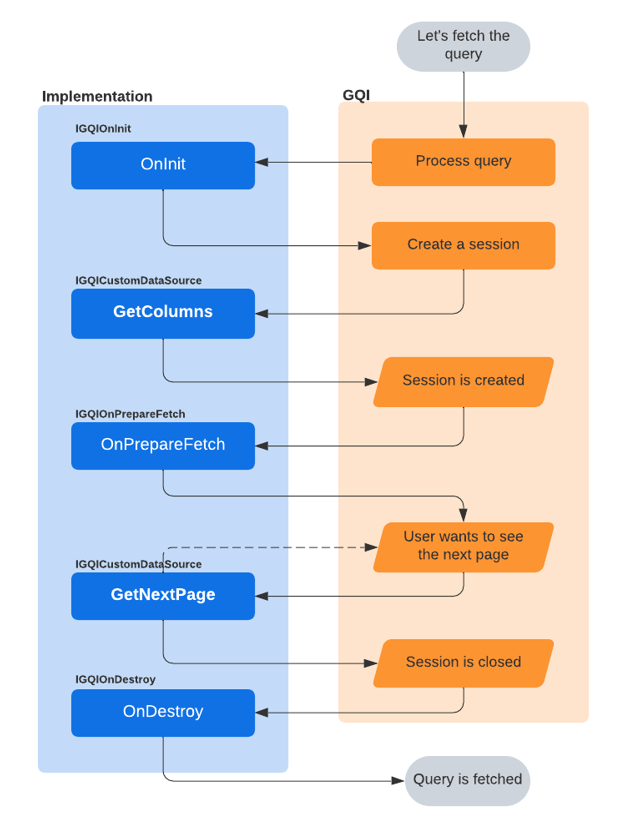
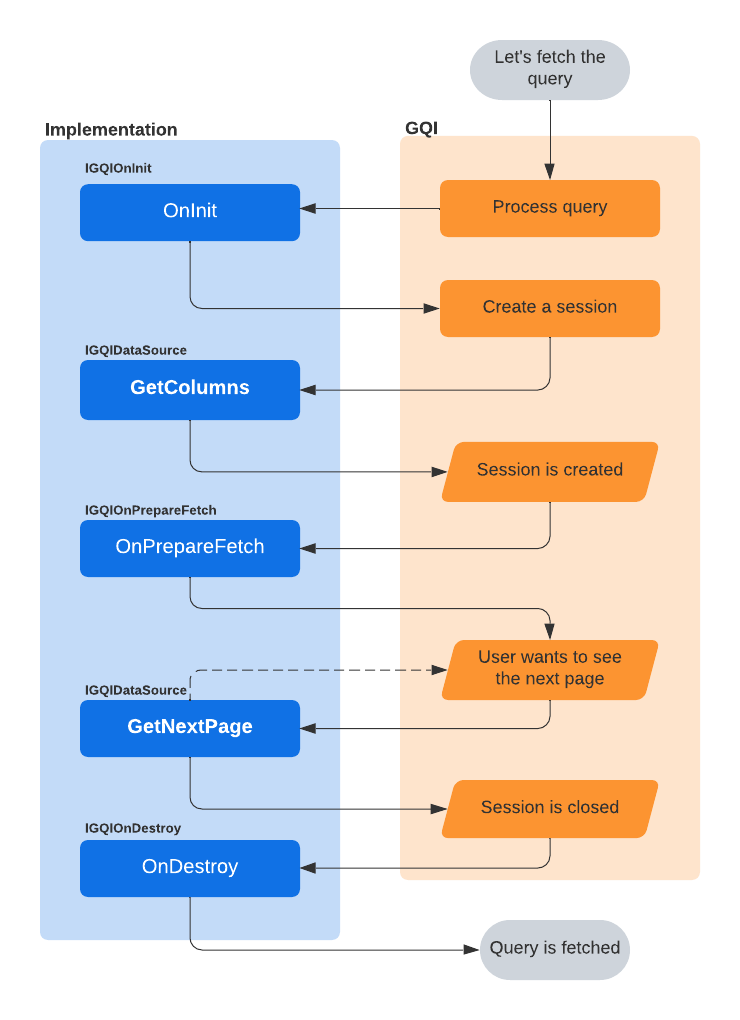
Updated GQI custom data source docs

Changed region(s): [[0.0306, 0.0, 0.95, 0.9297], [0.6435, 0.8987, 0.8581, 0.9607]]

diff --git a/user-guide/Advanced_Modules/Dashboards_app/Using_dashboard_feeds/Configuring_GQI_feeds.md b/user-guide/Advanced_Modules/Dashboards_app/Using_dashboard_feeds/Configuring_GQI_feeds.md
@@ -41,7 +41,7 @@ Available from DataMiner 10.3.0/10.2.4 onwards. Retrieves external data based on
 
 This is the most basic procedure to use an external data source in a query:
 
-1. In the Automation app, add a script containing a new class that implements the *IGQICustomDatasource* interface (see [Interfaces](#interfaces-in-the-custom-data-script )).
+1. In the Automation app, add a script containing a new class that implements the *IGQIDatasource* interface (see [Interfaces](#interfaces-in-the-custom-data-script)).
 
 1. Above the class, add the *GQIMetaData* attribute in order to configure the name of the data source as displayed in the Dashboards app.
 
@@ -51,7 +51,7 @@ This is the most basic procedure to use an external data source in a query:
    using Skyline.DataMiner.Analytics.GenericInterface;
 
    [GQIMetaData(Name = "People")]
-   public class MyCustomDataSource : IGQICustomDataSource
+   public class MyDataSource : IGQIDataSource
    {
    ...
    }
@@ -74,26 +74,26 @@ Depending on how the script is configured, there can be additional configuration
 
 A custom data source is represented as a class that implements predefined interfaces. The interfaces you can use are detailed below.
 
-##### IGQICustomDataSource
+##### IGQIDataSource
 
 This is the only required interface. It must be implemented for the class to be detected by GQI as a data source. This interface has the following methods:
 
-| Method | Input arguments | Output arguments | Description |
-|--------|-----------------|------------------|-------------|
-| GetColumns | - | GQICustomColumn[] | The GQI will request the columns. |
-| GetNextPage | GetNextPageInputArgs | GQICustomPage | The GQI will request data. |
+| Method      | Input arguments      | Output arguments | Description                       |
+| ----------- | -------------------- | ---------------- | --------------------------------- |
+| GetColumns  | -                    | GQIColumn[]      | The GQI will request the columns. |
+| GetNextPage | GetNextPageInputArgs | GQIPage          | The GQI will request data.        |
 
 ##### IGQIInputArguments
 
 This interface can be used to have the user specify an argument, for example the CSV file from which data should be parsed, or a filter that should be applied. This interface has the following methods:
 
-| Method | Input arguments | Output arguments | Description |
-|--------|-----------------|------------------|-------------|
-| GetInputArguments | - | AGQICustomArgument[] | Asks for additional information from the user when the data source is configured. |
-| OnArgumentsProcessed | OnArgumentsProcessedInputArgs | OnArgumentsProcessedOutputArgs | Event to indicate that the arguments have been processed. |
+| Method               | Input arguments               | Output arguments               | Description                                                                       |
+| -------------------- | ----------------------------- | ------------------------------ | --------------------------------------------------------------------------------- |
+| GetInputArguments    | -                             | GQIArgument[]                  | Asks for additional information from the user when the data source is configured. |
+| OnArgumentsProcessed | OnArgumentsProcessedInputArgs | OnArgumentsProcessedOutputArgs | Event to indicate that the arguments have been processed.                         |
 
 > [!NOTE]
-> The GQI does not validate the input arguments specified by the user. For example, a user can input an SQL query as a text input argument, and the content of the text argument will be forwarded to the custom data source implementation without validation.
+> The GQI does not validate the input arguments specified by the user. For example, a user can input an SQL query as a string input argument, and the content of the string argument will be forwarded to the custom data source implementation without validation.
 
 ##### IGQIOnInit
 
@@ -135,58 +135,58 @@ The following flowchart illustrates the GQI life cycle when a query is fetched:
 
 To build the custom data source, you can use the objects detailed below.
 
-##### GQICustomColumn
+##### GQIColumn
+
+This is an abstract class, with the derived types *GQIStringColumn*, *GQIBooleanColumn*, *GQIIntColumn*, *GQIDateTimeColumn* and *GQIDoubleColumn*, and with the following properties:
+
+| Property | Type          | Required | Description                                                                                                                            |
+| -------- | ------------- | -------- | -------------------------------------------------------------------------------------------------------------------------------------- |
+| Name     | String        | Yes      | The column name.                                                                                                                       |
+| Type     | GQIColumnType | Yes      | The type of data in the column. GQIColumnType is an enum that contains the following values: String, Int, DateTime, Boolean or Double. |
+
+##### GQIPage
 
 This object has the following properties:
 
-| Property | Type | Required | Description |
-|----------|------|----------|-------------|
-| Name | String | Yes | The column name. |
-| Type | GQICustomColumnType | Yes | The type of data in the column. GQICustomColumnType is an enum that contains the following values: String, Int, DateTime, Boolean or Double. |
+| Property    | Type     | Required | Description                                                                            |
+| ----------- | -------- | -------- | -------------------------------------------------------------------------------------- |
+| Rows        | GQIRow[] | Yes      | The rows of the page.                                                                  |
+| HasNextPage | Boolean  | No       | True if additional pages can be retrieved, False if the current page is the last page. |
 
-##### GQICustomPage
-
-This object has the following properties:
-
-| Property | Type | Required | Description |
-|----------|------|----------|-------------|
-| Rows | GQICustomRow[] | Yes | The rows of the page. |
-| HasNextPage | Boolean | No | True if additional pages can be retrieved, False if the current page is the last page. |
-
-##### GQICustomRow
+##### GQIRow
 
 This object has the following properties:
 
-| Property | Type | Required | Description |
-|----------|------|----------|-------------|
-| Cells | GQICustomCell[] | Yes | The cells of the row. |
+| Property | Type      | Required | Description           |
+| -------- | --------- | -------- | --------------------- |
+| Cells    | GQICell[] | Yes      | The cells of the row. |
 
-##### GQICustomCell
+##### GQICell
 
 This object has the following properties:
 
-| Property | Type | Required | Description |
-|----------|------|----------|-------------|
-| Value | Object | No | The value of the cell. |
-| DisplayValue | String | No | The display value of the cell. |
+| Property     | Type   | Required | Description                    |
+| ------------ | ------ | -------- | ------------------------------ |
+| Value        | Object | No       | The value of the cell.         |
+| DisplayValue | String | No       | The display value of the cell. |
 
 > [!NOTE]
 > The type of value of a cell must match the type of the corresponding column.
 
-##### AGQICustomArgument
+##### GQIArgument
 
-This is an abstract class, with the derived types *GQITextArgument* and *GQIDoubleArgument*, and with the following properties:
+This is an abstract class, with the derived types *GQIStringArgument* and *GQIDoubleArgument*, and with the following properties:
 
-| Property | Type | Required | Description |
-|----------|------|----------|-------------|
-| Name | String | Yes | The name of the input argument. |
-| IsRequired | Boolean | No | Indicates whether the argument is required. |
+| Property   | Type    | Required | Description                                 |
+| ---------- | ------- | -------- | ------------------------------------------- |
+| Name       | String  | Yes      | The name of the input argument.             |
+| IsRequired | Boolean | No       | Indicates whether the argument is required. |
 
 #### Example custom data script
 
 Below you can find an example script that forwards dummy data to the GQI. The name of the data source, as defined in the *GQIMetaData* attribute, will be “People”.
 
-First the *IGQICustomDataSource* interface is implemented, then *GetColumns* is used to define the custom columns for the data source. In this case, there are 5 columns. The *GetNextPage* method then returns the actual data to the GQI. In this case these are 3 rows, defined as an array of cells. For each cell, a display value can also be defined. In this case, this is done for the cells within the *Height* column to indicate the unit of measure. The *HasNextPage* property is set to *False* to indicate that no additional pages need to be fetched.
+First the *IGQIDataSource* interface is implemented, then *GetColumns* is used to define the custom columns for the data source. In this case, there are 5 columns. The *GetNextPage* method then returns the actual data to the GQI. In this case these are 3 rows, defined as an array of cells. For each cell, a display value can also be defined. In this case, this is done for the cells within the *Height* column to indicate the unit of measure. The *HasNextPage* property is set to *False* to indicate that no additional pages need to be fetched.
 
 The optional *IGQIInputArguments* interface is also implemented in the example, in this case to allow the user to add an input argument indicating the minimum age for the records that will be retrieved. The argument is indicated as required, so the user will have to specify it to be able to configure the query. The argument value is retrieved with *OnArgumentsProcessedInputArgs* and used to filter the returned data.
 
@@ -197,26 +197,26 @@ using System.Linq;
 using Skyline.DataMiner.Analytics.GenericInterface;
 
 [GQIMetaData(Name = "People")]
-public class MyCustomDataSource : IGQICustomDataSource, IGQIInputArguments
+public class MyDataSource : IGQIDataSource, IGQIInputArguments
 {
     private GQIDoubleArgument _argument = new GQIDoubleArgument("Age") { IsRequired = true };
     private double _minimumAge;
 
-    public GQICustomColumn[] GetColumns()
+    public GQIColumn[] GetColumns()
     {
-        return new GQICustomColumn[]
+        return new GQIColumn[]
         {
-            new GQICustomColumn("Name", GQICustomColumnType.String),
-            new GQICustomColumn("Age", GQICustomColumnType.Int),
-            new GQICustomColumn("Height (m)", GQICustomColumnType.Double),
-            new GQICustomColumn("Birthday", GQICustomColumnType.DateTime),
-            new GQICustomColumn("Likes apples", GQICustomColumnType.Boolean)
+            new GQIStringColumn("Name"),
+            new GQIIntColumn("Age"),
+            new GQIDoubleColumn("Height (m)"),
+            new GQIDateTimeColumn("Birthday"),
+            new GQIBooleanColumn("Likes apples")
         };
     }
 
-    public AGQICustomArgument[] GetInputArguments()
+    public GQIArgument[] GetInputArguments()
     {
-        return new AGQICustomArgument[] { _argument };
+        return new GQIArgument[] { _argument };
     }
 
     public OnArgumentsProcessedOutputArgs OnArgumentsProcessed(OnArgumentsProcessedInputArgs args)
@@ -225,41 +225,41 @@ public class MyCustomDataSource : IGQICustomDataSource, IGQIInputArguments
         return new OnArgumentsProcessedOutputArgs();
     }
 
-    public GQICustomPage GetNextPage(GetNextPageInputArgs args)
+    public GQIPage GetNextPage(GetNextPageInputArgs args)
     {
-        var rows = new List<GQICustomRow>() {
-            new GQICustomRow(
-                new GQICustomCell[]
+        var rows = new List<GQIRow>() {
+            new GQIRow(
+                new GQICell[]
                     {
-                        new GQICustomCell() { Value = "Alice" },
-                        new GQICustomCell() { Value = 32 },
-                        new GQICustomCell() { Value = 1.74, DisplayValue = "1.74 m" },
-                        new GQICustomCell() { Value = new DateTime(1990, 5, 12) },
-                        new GQICustomCell() { Value = true }
+                        new GQICell() { Value = "Alice" },
+                        new GQICell() { Value = 32 },
+                        new GQICell() { Value = 1.74, DisplayValue = "1.74 m" },
+                        new GQICell() { Value = new DateTime(1990, 5, 12) },
+                        new GQICell() { Value = true }
                     }),
-            new GQICustomRow(
-                new GQICustomCell[]
+            new GQIRow(
+                new GQICell[]
                     {
-                        new GQICustomCell() { Value = "Bob" },
-                        new GQICustomCell() { Value = 22 },
-                        new GQICustomCell() { Value = 1.85, DisplayValue = "1.85 m" },
-                        new GQICustomCell() { Value = new DateTime(2000, 1, 22) },
-                        new GQICustomCell() { Value = true }
+                        new GQICell() { Value = "Bob" },
+                        new GQICell() { Value = 22 },
+                        new GQICell() { Value = 1.85, DisplayValue = "1.85 m" },
+                        new GQICell() { Value = new DateTime(2000, 1, 22) },
+                        new GQICell() { Value = true }
                     }),
-            new GQICustomRow(
-                new GQICustomCell[]
+            new GQIRow(
+                new GQICell[]
                     {
-                        new GQICustomCell() { Value = "Carol" },
-                        new GQICustomCell() { Value = 27 },
-                        new GQICustomCell() { Value = 1.67, DisplayValue = "1.67 m" },
-                        new GQICustomCell() { Value = new DateTime(1995, 10, 3) },
-                        new GQICustomCell() { Value = false }
+                        new GQICell() { Value = "Carol" },
+                        new GQICell() { Value = 27 },
+                        new GQICell() { Value = 1.67, DisplayValue = "1.67 m" },
+                        new GQICell() { Value = new DateTime(1995, 10, 3) },
+                        new GQICell() { Value = false }
                     })
             };
 
         var filteredRows = rows.Where(row => (int)row.Cells[1].Value > _minimumAge).ToArray();
 
-        return new GQICustomPage(filteredRows)
+        return new GQIPage(filteredRows)
         {
             HasNextPage = false
         };
